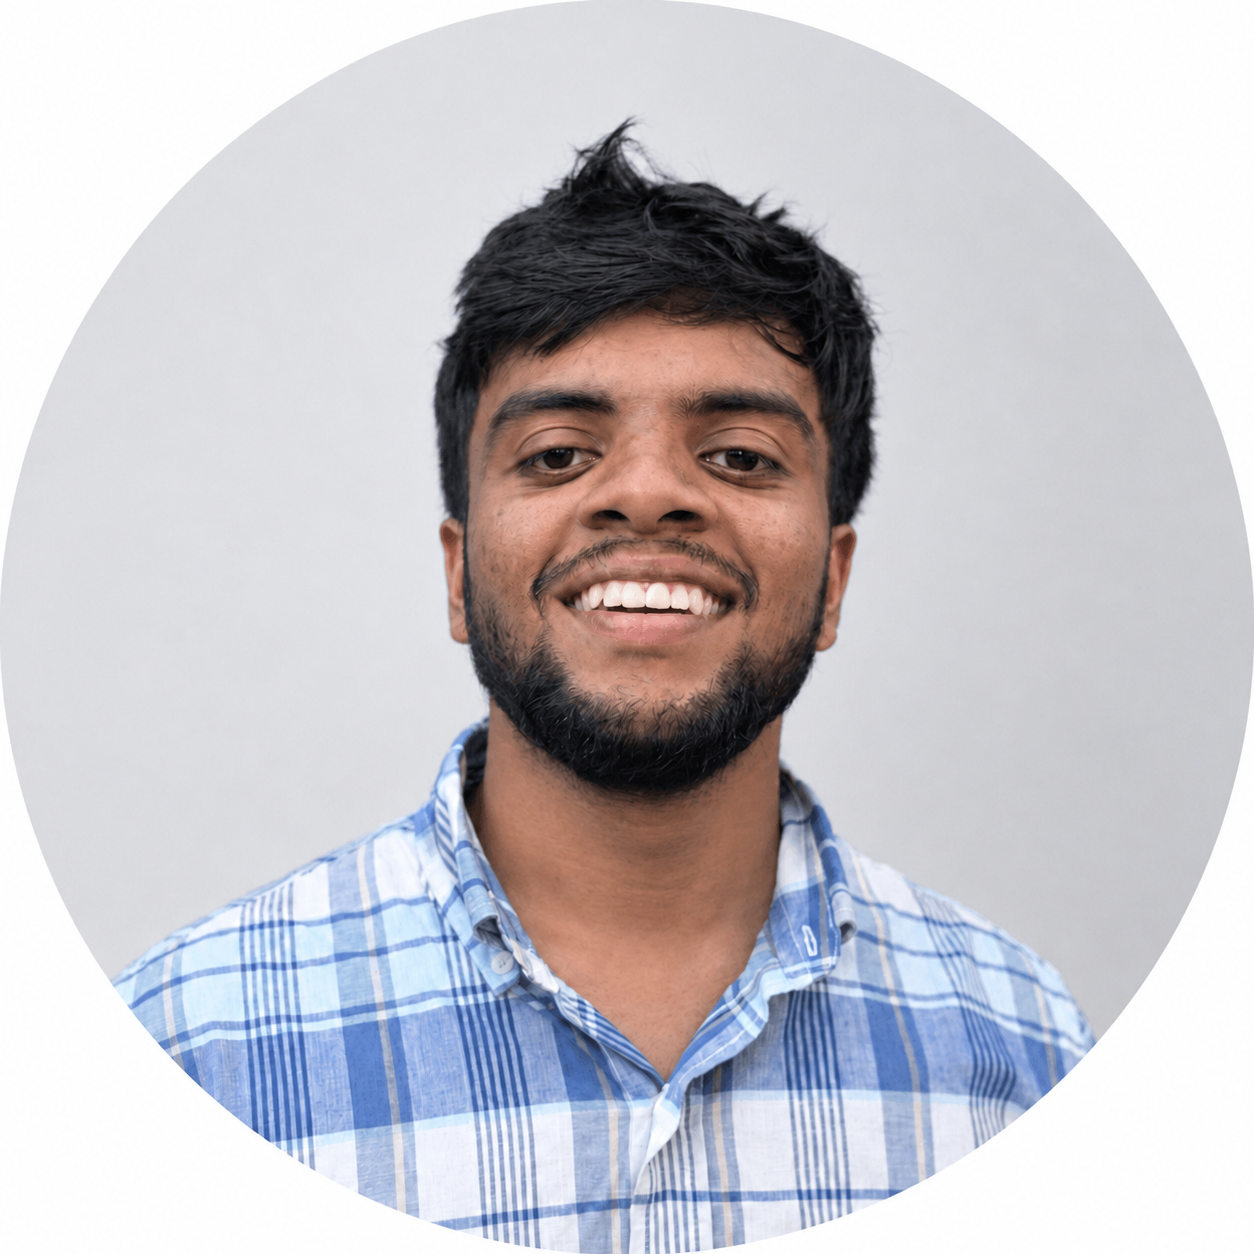
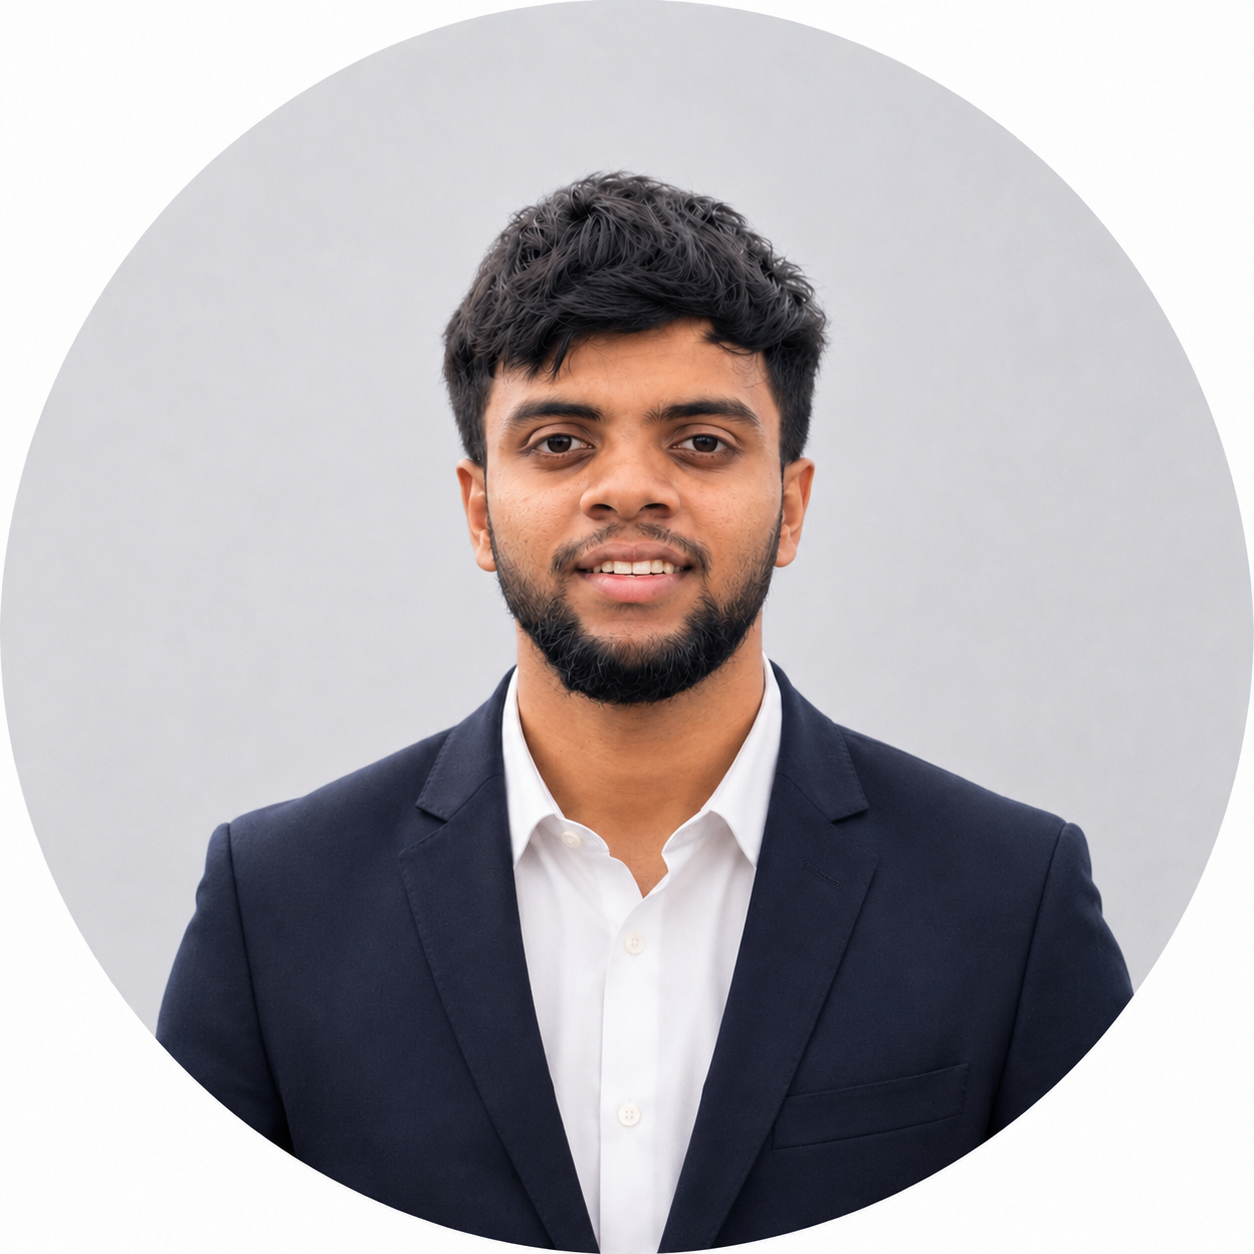
Correct profile photo and framing

diff --git a/style.css b/style.css
@@ -541,9 +541,20 @@ p { color:var(--muted); }
 section { max-width:1180px; margin-inline:auto; padding-top:6rem; }
 #profile { position:relative; min-height:82vh; gap:clamp(3rem,7vw,7rem); }
 #profile::before { position:absolute; z-index:-1; width:22rem; height:22rem; content:""; border:1px solid rgba(23,107,135,.18); border-radius:50%; transform:translate(-28rem,1rem); animation:float-orb 7s ease-in-out infinite; }
-#profile .section__pic-container { position:relative; padding:.65rem; background:linear-gradient(145deg,var(--primary),var(--accent)); border-radius:45% 55% 52% 48% / 48% 42% 58% 52%; box-shadow:var(--shadow); animation:profile-shape 8s ease-in-out infinite; }
+#profile .section__pic-container {
+  position:relative;
+  aspect-ratio:1;
+  padding:.45rem;
+  overflow:hidden;
+  background:linear-gradient(145deg,var(--primary),var(--accent));
+  border-radius:50%;
+  box-shadow:var(--shadow);
+}
 #profile .section__pic-container img,.about-pic { width:100%; height:100%; object-fit:cover; }
-#profile .section__pic-container img { border-radius:inherit; }
+#profile .section__pic-container img {
+  border-radius:50%;
+  object-position:center;
+}
 .section__text { max-width:40rem; }
 #profile .section__text {
   max-width:42rem;
